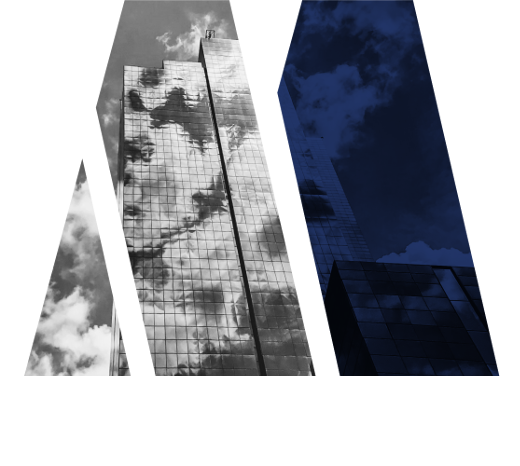
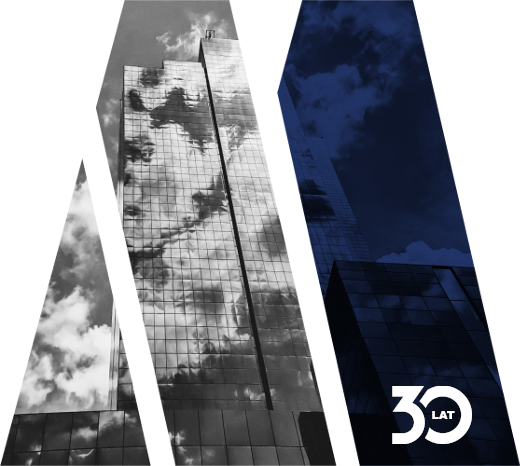
added bg

Changed region(s): [[0.0, 0.7811, 1.0, 1.0]]

diff --git a/index.html b/index.html
@@ -10,7 +10,7 @@
 <link href="https://fonts.googleapis.com/css2?family=Montserrat:ital,wght@0,100..900;1,100..900&display=swap" rel="stylesheet">
     <link rel="stylesheet" href="./css/styles.css">
 </head>
-<body>
+<body class="body-bg">
     <div class="container">
 <header class="top-line">
     <img src="./images/logo_mentor.svg" width="36" height="42" alt="logo_mentor" class="logo-img">

diff --git a/css/styles.css b/css/styles.css
@@ -17,6 +17,11 @@ body {
   font-family: "monserrat", sans-serif;
   background-color: #e6e6e6;
 }
+.body-bg{
+  height: 100vh;
+  background-image: url(../images/M_broker_520x466_30lat.png);
+  background-repeat: repeat;
+}
 img {
   display: block;
 }
